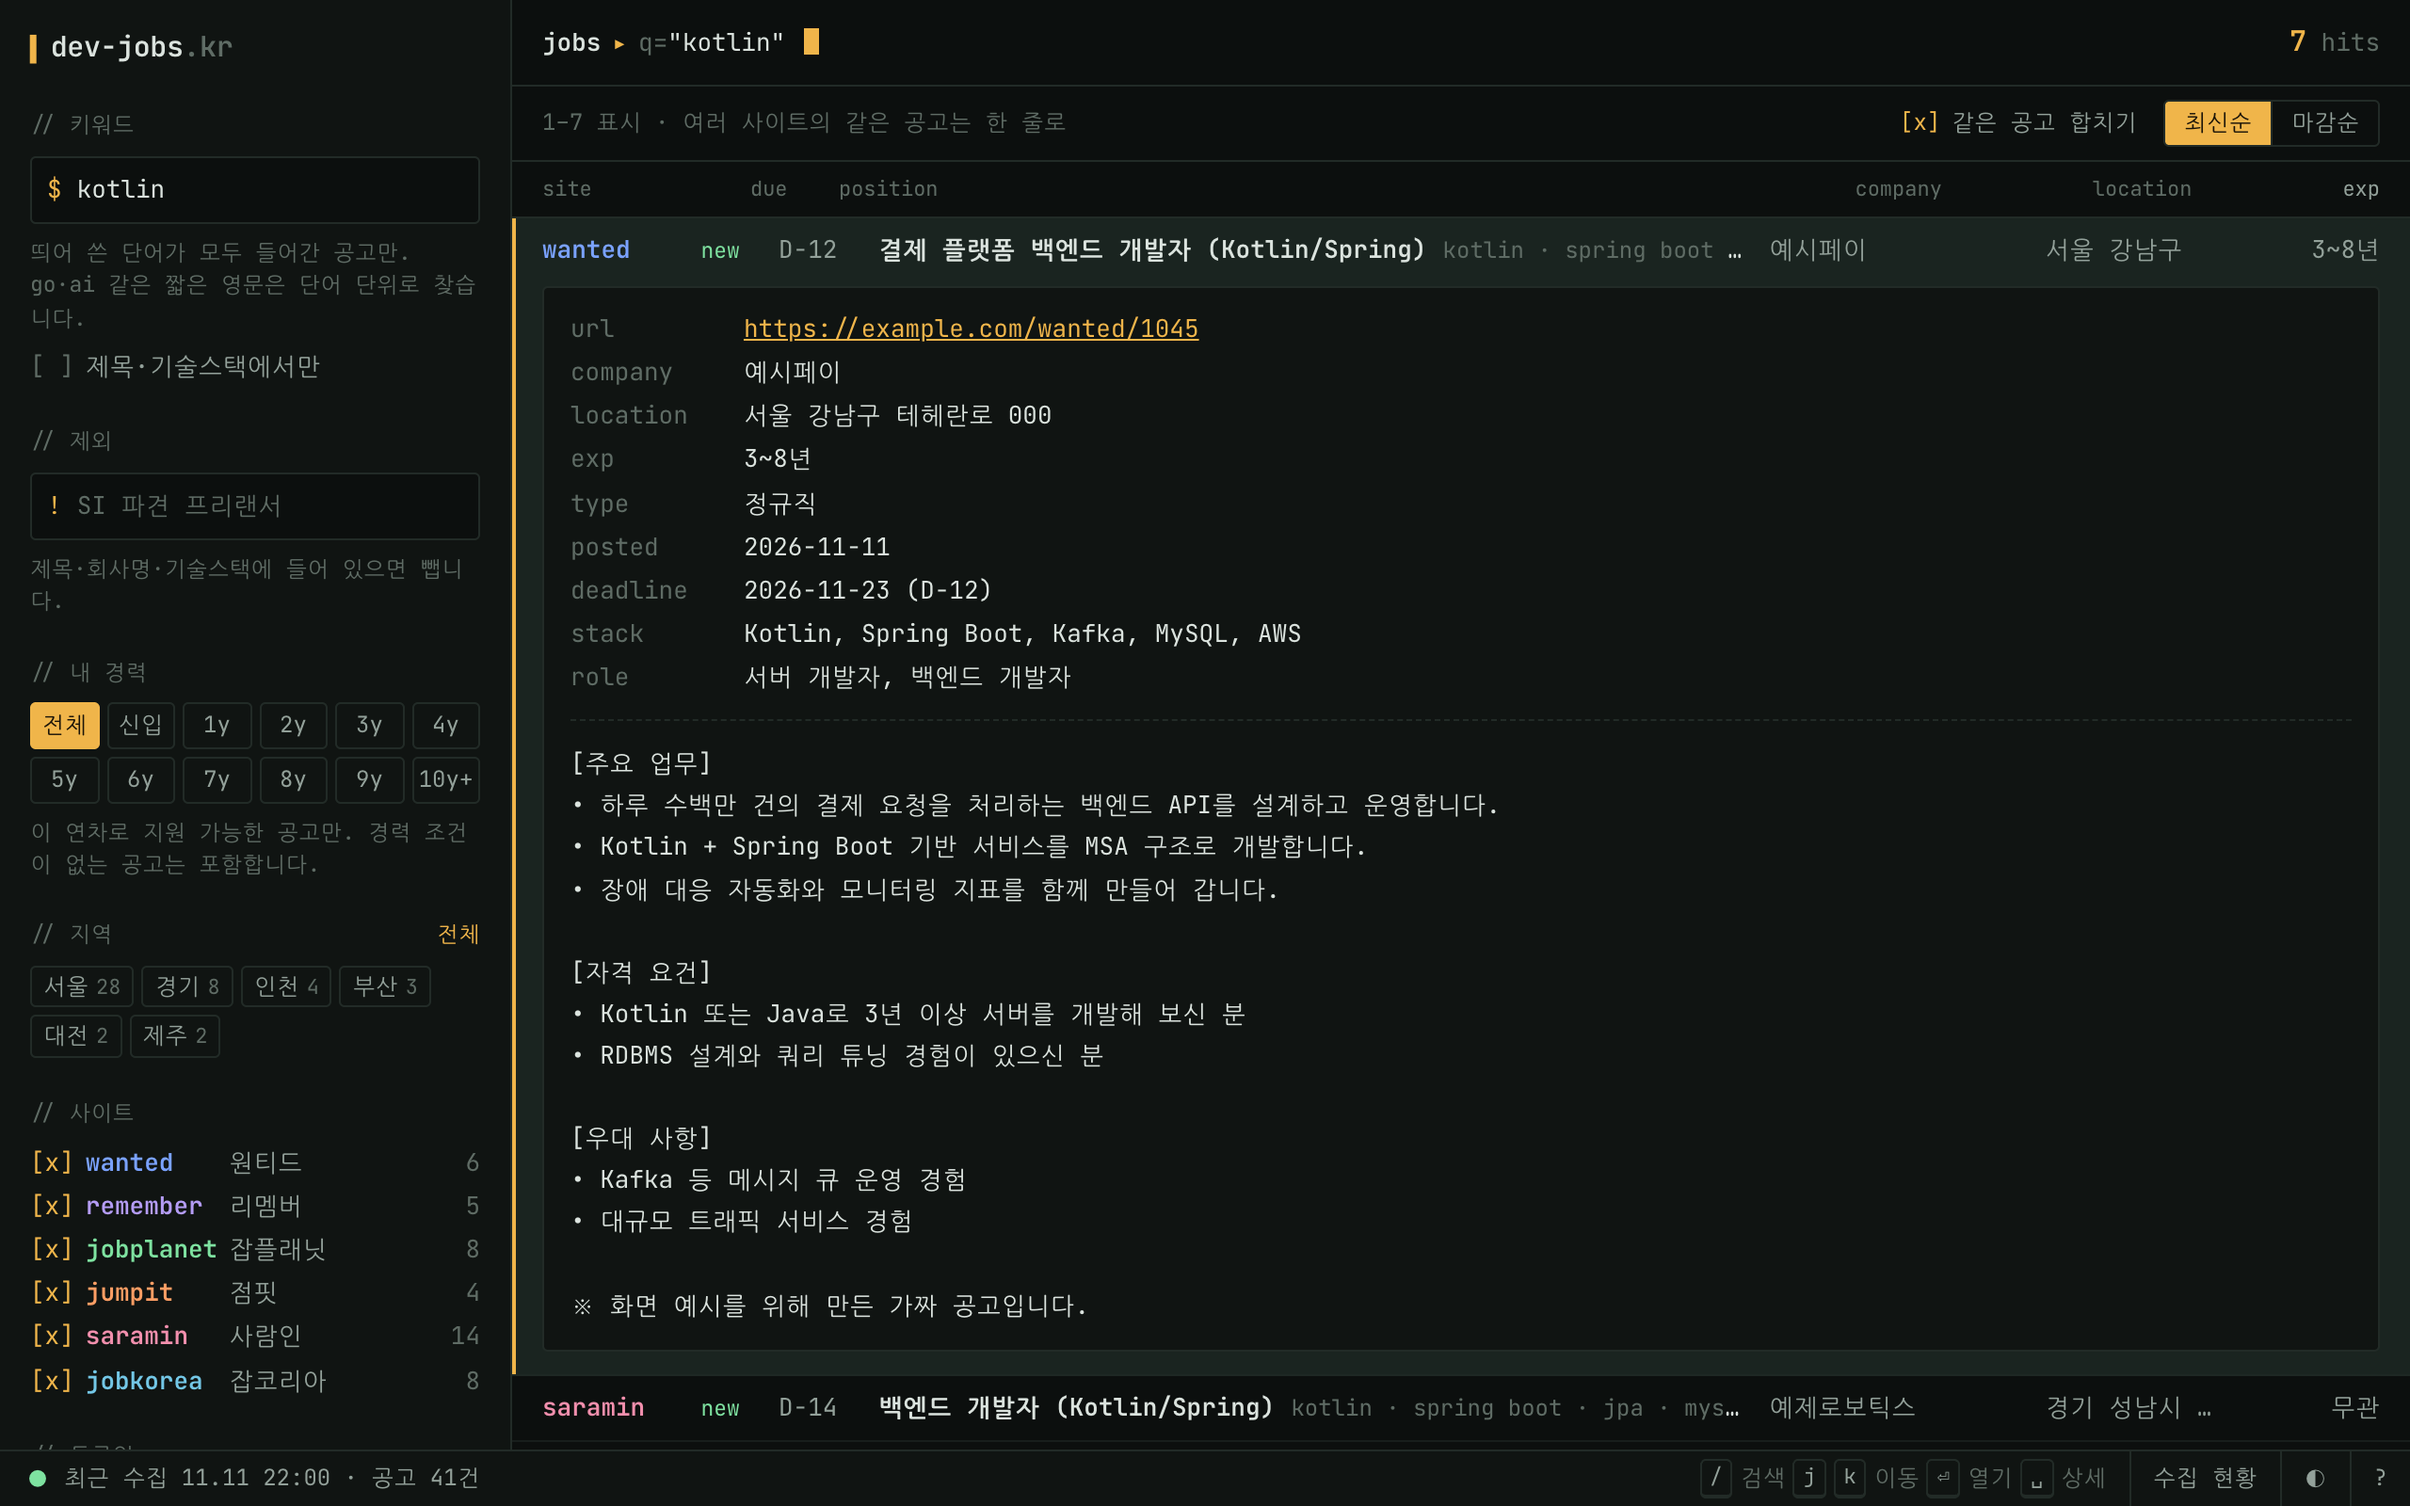
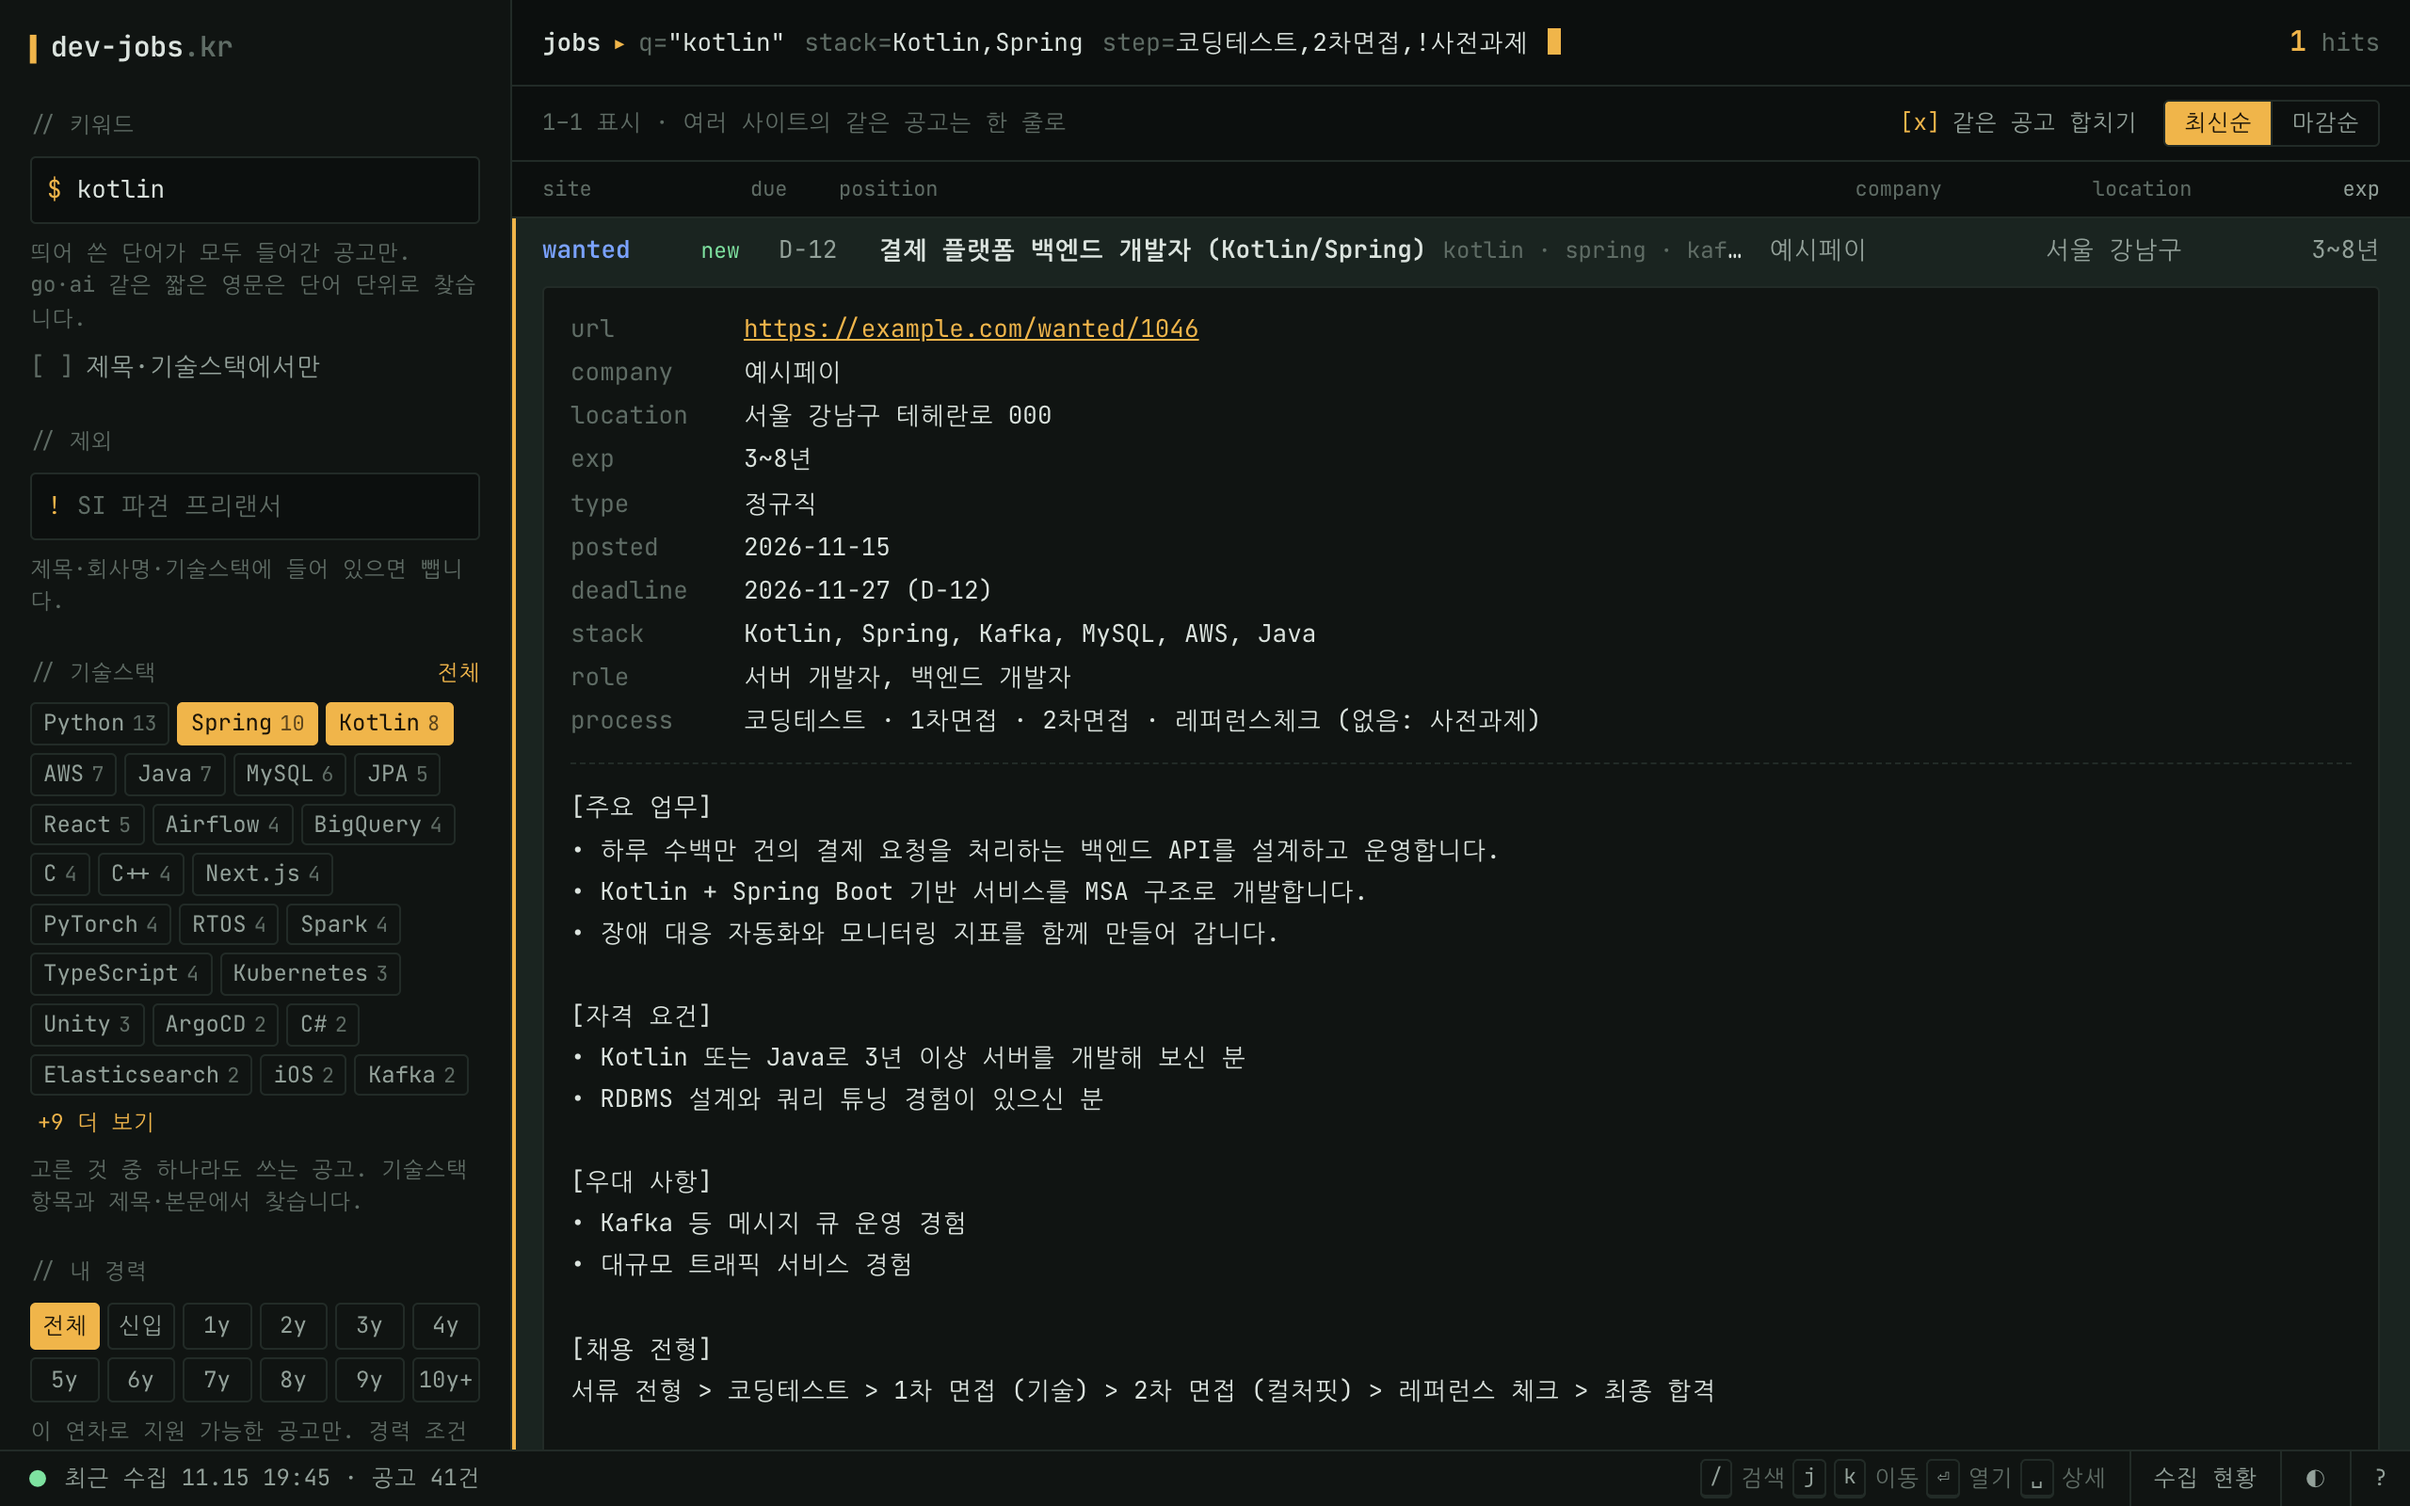
README 스크린샷을 기술스택·채용 절차 필터가 보이는 화면으로 교체
- PC · 키워드 검색과 공고 상세: 기술스택·채용 절차 필터를 함께 걸고, 상세의 process 줄이 보이도록
- 폰 · 검색 조건: 기술스택 선택, 채용 절차 단계별 있음·없음, 서울 구 단위 지역 선택

diff --git a/README.md b/README.md
@@ -14,11 +14,11 @@
 
 | PC · 검색 조건과 공고 목록 | PC · 키워드 검색과 공고 상세 |
 | :---: | :---: |
-| <img src="docs/screenshots/desktop.png" width="400" alt="PC 화면: 왼쪽 검색 조건과 오른쪽 공고 목록"> | <img src="docs/screenshots/desktop-detail.png" width="400" alt="PC 화면: kotlin으로 찾은 공고의 상세 정보와 본문"> |
+| <img src="docs/screenshots/desktop.png" width="400" alt="PC 화면: 왼쪽 검색 조건과 오른쪽 공고 목록"> | <img src="docs/screenshots/desktop-detail.png" width="400" alt="PC 화면: kotlin 키워드에 기술스택(Kotlin, Spring)과 채용 절차(코딩테스트·2차면접 있음, 사전과제 없음)로 좁힌 공고의 상세 정보와 본문"> |
 
-| 폰 · 공고 목록 | 폰 · 검색 조건 · 지역 선택 | 폰 · 공고 상세 |
+| 폰 · 공고 목록 | 폰 · 기술스택 · 채용 절차 · 지역 선택 | 폰 · 공고 상세 |
 | :---: | :---: | :---: |
-| <img src="docs/screenshots/mobile.png" width="200" alt="폰 화면: 공고 목록"> | <img src="docs/screenshots/mobile-filters.png" width="200" alt="폰 화면: 서울을 고르면 구 단위로 좁히는 검색 조건"> | <img src="docs/screenshots/mobile-detail.png" width="200" alt="폰 화면: 공고 상세 정보와 본문"> |
+| <img src="docs/screenshots/mobile.png" width="200" alt="폰 화면: 공고 목록"> | <img src="docs/screenshots/mobile-filters.png" width="200" alt="폰 화면: 기술스택 선택, 채용 절차 단계별 있음·없음, 서울을 고르면 구 단위로 좁히는 지역 검색 조건"> | <img src="docs/screenshots/mobile-detail.png" width="200" alt="폰 화면: 공고 상세 정보와 본문"> |
 
 <sub>로컬 Supabase에 예시 데이터를 넣고 촬영했습니다. 캡처의 회사와 공고는 화면을 보여 주려고 만든 가짜 데이터이고, 실제로 수집한 공고는 저장소에 올리지 않습니다.</sub>
 
